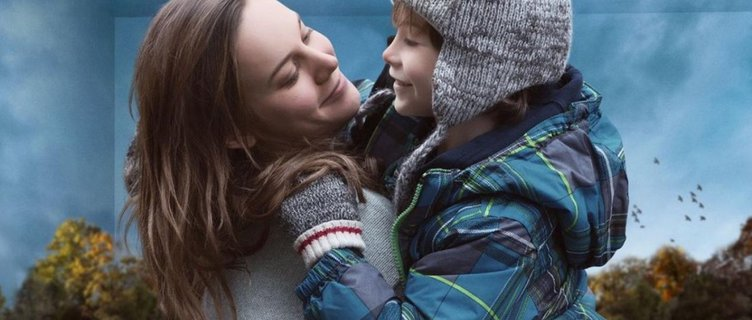
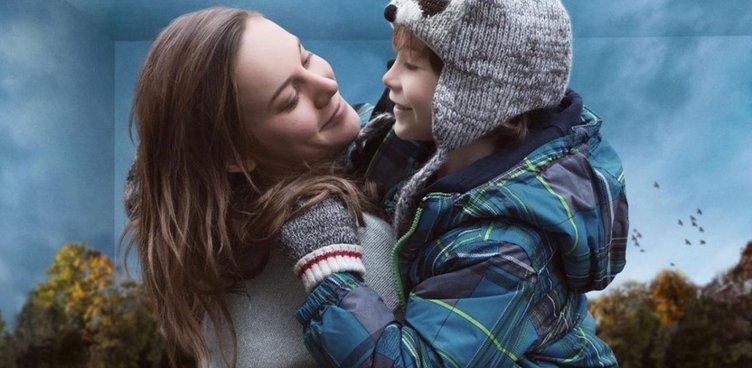
Make movie images slightly higher to avoid cropping faces

diff --git a/index.html b/index.html
@@ -3,7 +3,7 @@
 <head>
     <meta charset="utf-8">
     <meta http-equiv="x-ua-compatible" content="IE=edge">
-    <title>Kolahtaako elokuvaviikko Kotkassa 10.-16.10.2016</title>
+    <title>Kolahtaako? -elokuvaviikko Kotkassa 10.-16.10.2016</title>
 
     <meta name="description" content="" />
     <meta name="rating" content="Safe For Kids" />
@@ -103,7 +103,7 @@
 
         .movie .header {
             max-width: 752px;
-            height: 320px;
+            height: 368px;
             text-align: center;
             background-repeat: no-repeat;
             background-position: center center;
@@ -115,7 +115,7 @@
             text-transform: uppercase;
             font-size: 400%;
             text-shadow: black 0 0 5px;
-            margin: 1em 0 0 0;
+            margin: 1.3em 0 0 0;
         }
 
         .movie .header h3 {
